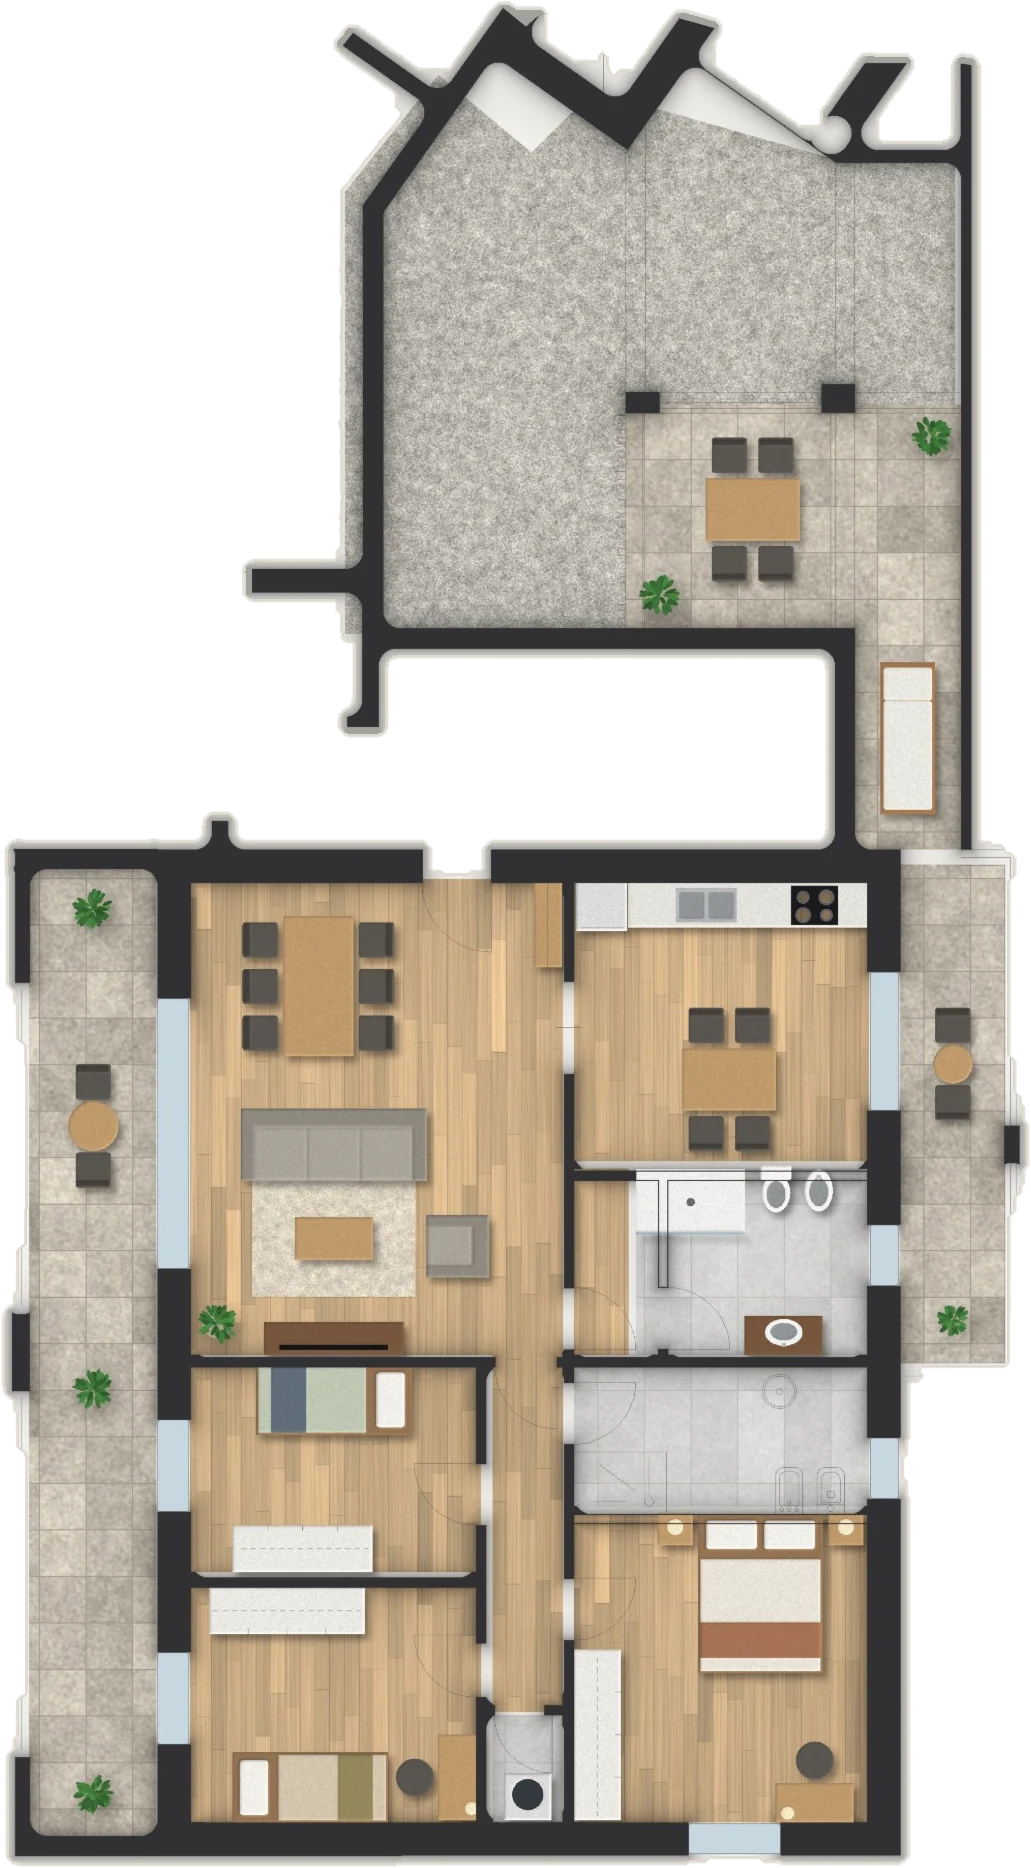
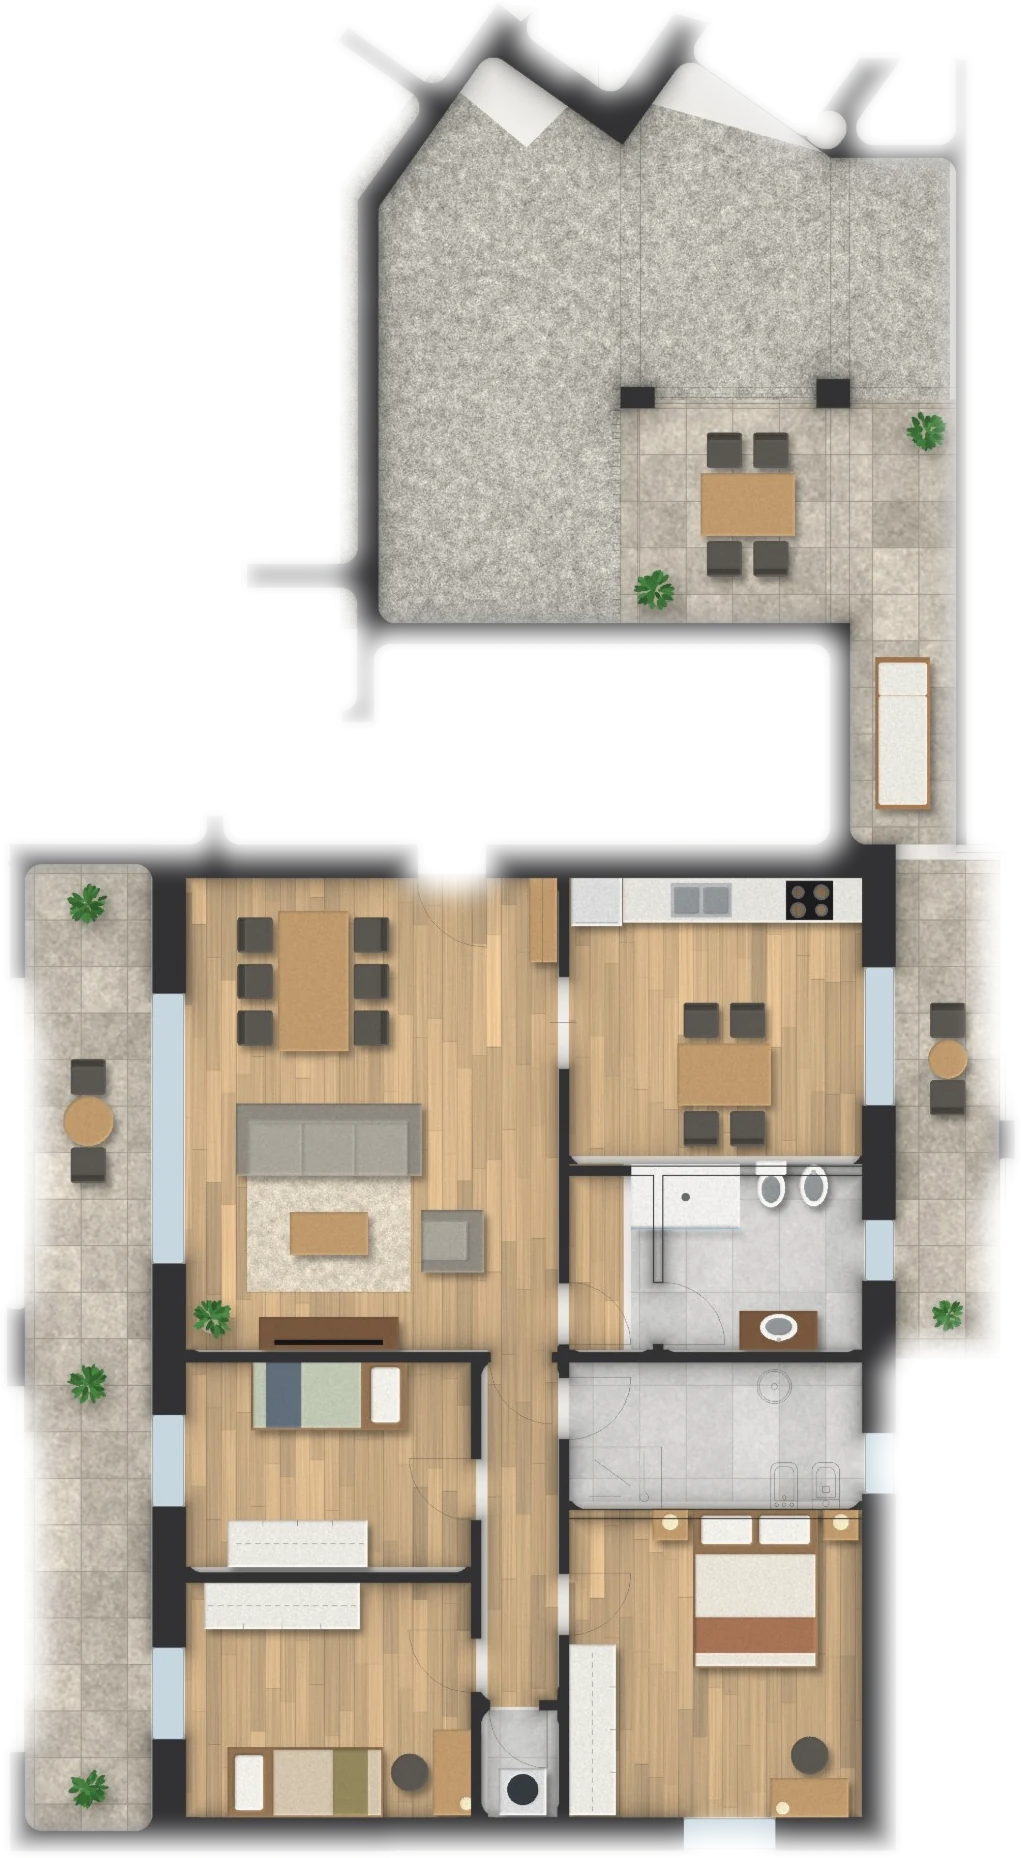
Planimetrie: bordo sfumato nel nero al posto del ritaglio netto
- Tolti il bordo chiaro e l'ombra: il perimetro della pianta sfuma gradualmente nel fondo scuro
- Sfumatura continua (senza scalini) anche sui contorni irregolari

Claude-Session: https://claude.ai/code/session_01R6xdRoKJ6ZxDiY1moh1f7c

Changed region(s): [[0.0, 0.0, 1.0, 0.9989], [0.6983, 0.5307, 0.7591, 0.5619]]

diff --git a/villa-c.html b/villa-c.html
@@ -73,7 +73,7 @@ nav.scrolled{background:rgba(8,8,8,.74);backdrop-filter:blur(16px);-webkit-backd
 .plan-fig a{height:calc(100% - 30px);max-width:100%;display:flex;justify-content:center;border-radius:6px;}
 .plan-fig a:focus-visible{outline:2px solid var(--accent);outline-offset:4px;}
 .plan-fig img{height:100%;width:auto;max-width:100%;object-fit:contain;cursor:zoom-in;
-  filter:drop-shadow(0 6px 8px rgba(0,0,0,.45)) drop-shadow(0 30px 38px rgba(0,0,0,.55));
+  opacity:.95;
   transform:translateY(14px) scale(.97);transition:transform 1s var(--e-expo);}
 .ustage.show-plan .plan-fig img{transform:none;}
 .plan-fig:nth-child(2) img{transition-delay:.08s;}
@@ -215,7 +215,7 @@ footer{background:#040404;padding:clamp(34px,5vh,52px) clamp(20px,5vw,60px);disp
 
 <header class="ustage" id="ustage">
   <div class="media" id="media"><div class="slide on" data-i="0"><img src="images/villa-c_30.webp" alt="Residenza Verdi 8, Villa C: render 1 di 20" loading="eager" decoding="async"></div><div class="slide" data-i="1"><img src="images/villa-c_1.webp" alt="Residenza Verdi 8, Villa C: render 2 di 20" loading="eager" decoding="async"></div><div class="slide" data-i="2"><img src="images/villa-c_2.webp" alt="Residenza Verdi 8, Villa C: render 3 di 20" loading="lazy" decoding="async"></div><div class="slide" data-i="3"><img src="images/villa-c_3.webp" alt="Residenza Verdi 8, Villa C: render 4 di 20" loading="lazy" decoding="async"></div><div class="slide" data-i="4"><img src="images/villa-c_4.webp" alt="Residenza Verdi 8, Villa C: render 5 di 20" loading="lazy" decoding="async"></div><div class="slide" data-i="5"><img src="images/villa-c_5.webp" alt="Residenza Verdi 8, Villa C: render 6 di 20" loading="lazy" decoding="async"></div><div class="slide" data-i="6"><img src="images/villa-c_6.webp" alt="Residenza Verdi 8, Villa C: render 7 di 20" loading="lazy" decoding="async"></div><div class="slide" data-i="7"><img src="images/villa-c_7.webp" alt="Residenza Verdi 8, Villa C: render 8 di 20" loading="lazy" decoding="async"></div><div class="slide" data-i="8"><img src="images/villa-c_8.webp" alt="Residenza Verdi 8, Villa C: render 9 di 20" loading="lazy" decoding="async"></div><div class="slide" data-i="9"><img src="images/villa-c_9.webp" alt="Residenza Verdi 8, Villa C: render 10 di 20" loading="lazy" decoding="async"></div><div class="slide" data-i="10"><img src="images/villa-c_10.webp" alt="Residenza Verdi 8, Villa C: render 11 di 20" loading="lazy" decoding="async"></div><div class="slide" data-i="11"><img src="images/villa-c_11.webp" alt="Residenza Verdi 8, Villa C: render 12 di 20" loading="lazy" decoding="async"></div><div class="slide" data-i="12"><img src="images/villa-c_12.webp" alt="Residenza Verdi 8, Villa C: render 13 di 20" loading="lazy" decoding="async"></div><div class="slide" data-i="13"><img src="images/villa-c_13.webp" alt="Residenza Verdi 8, Villa C: render 14 di 20" loading="lazy" decoding="async"></div><div class="slide" data-i="14"><img src="images/villa-c_14.webp" alt="Residenza Verdi 8, Villa C: render 15 di 20" loading="lazy" decoding="async"></div><div class="slide" data-i="15"><img src="images/villa-c_15.webp" alt="Residenza Verdi 8, Villa C: render 16 di 20" loading="lazy" decoding="async"></div><div class="slide" data-i="16"><img src="images/villa-c_16.webp" alt="Residenza Verdi 8, Villa C: render 17 di 20" loading="lazy" decoding="async"></div><div class="slide" data-i="17"><img src="images/villa-c_17.webp" alt="Residenza Verdi 8, Villa C: render 18 di 20" loading="lazy" decoding="async"></div><div class="slide" data-i="18"><img src="images/villa-c_18.webp" alt="Residenza Verdi 8, Villa C: render 19 di 20" loading="lazy" decoding="async"></div><div class="slide" data-i="19"><img src="images/villa-c_19.webp" alt="Residenza Verdi 8, Villa C: render 20 di 20" loading="lazy" decoding="async"></div></div>
-  <div class="plan-view"><figure class="plan-fig"><a href="images/pianta-villa-c.webp" target="_blank" rel="noopener" aria-label="Apri la planimetria piano terra a piena risoluzione"><img src="images/pianta-villa-c.webp" srcset="images/pianta-villa-c-1000.webp 1000w, images/pianta-villa-c.webp 846w" sizes="(max-width:768px) 90vw, 50vw" width="846" height="1968" alt="Planimetria Villa C, piano terra: soggiorno, cucina, tre camere, due bagni, giardini e posto auto" loading="lazy" decoding="async"></a><figcaption>Piano terra</figcaption></figure><figure class="plan-fig"><a href="images/pianta-villa-c-terrazzo.webp" target="_blank" rel="noopener" aria-label="Apri la planimetria terrazzo a piena risoluzione"><img src="images/pianta-villa-c-terrazzo.webp" srcset="images/pianta-villa-c-terrazzo-1000.webp 1000w, images/pianta-villa-c-terrazzo.webp 961w" sizes="(max-width:768px) 90vw, 50vw" width="961" height="1539" alt="Planimetria Villa C, terrazzo panoramico" loading="lazy" decoding="async"></a><figcaption>Terrazzo</figcaption></figure></div>
+  <div class="plan-view"><figure class="plan-fig"><a href="images/pianta-villa-c.webp" target="_blank" rel="noopener" aria-label="Apri la planimetria piano terra a piena risoluzione"><img src="images/pianta-villa-c.webp" srcset="images/pianta-villa-c-1000.webp 1000w, images/pianta-villa-c.webp 836w" sizes="(max-width:768px) 90vw, 50vw" width="836" height="1958" alt="Planimetria Villa C, piano terra: soggiorno, cucina, tre camere, due bagni, giardini e posto auto" loading="lazy" decoding="async"></a><figcaption>Piano terra</figcaption></figure><figure class="plan-fig"><a href="images/pianta-villa-c-terrazzo.webp" target="_blank" rel="noopener" aria-label="Apri la planimetria terrazzo a piena risoluzione"><img src="images/pianta-villa-c-terrazzo.webp" srcset="images/pianta-villa-c-terrazzo-1000.webp 1000w, images/pianta-villa-c-terrazzo.webp 951w" sizes="(max-width:768px) 90vw, 50vw" width="951" height="1529" alt="Planimetria Villa C, terrazzo panoramico" loading="lazy" decoding="async"></a><figcaption>Terrazzo</figcaption></figure></div>
   <div class="veil"></div>
 
   <div class="media-toggle" id="toggle">

diff --git a/app-a.html b/app-a.html
@@ -73,7 +73,7 @@ nav.scrolled{background:rgba(8,8,8,.74);backdrop-filter:blur(16px);-webkit-backd
 .plan-fig a{height:calc(100% - 30px);max-width:100%;display:flex;justify-content:center;border-radius:6px;}
 .plan-fig a:focus-visible{outline:2px solid var(--accent);outline-offset:4px;}
 .plan-fig img{height:100%;width:auto;max-width:100%;object-fit:contain;cursor:zoom-in;
-  filter:drop-shadow(0 6px 8px rgba(0,0,0,.45)) drop-shadow(0 30px 38px rgba(0,0,0,.55));
+  opacity:.95;
   transform:translateY(14px) scale(.97);transition:transform 1s var(--e-expo);}
 .ustage.show-plan .plan-fig img{transform:none;}
 .plan-fig:nth-child(2) img{transition-delay:.08s;}
@@ -215,7 +215,7 @@ footer{background:#040404;padding:clamp(34px,5vh,52px) clamp(20px,5vw,60px);disp
 
 <header class="ustage" id="ustage">
   <div class="media" id="media"><div class="slide on" data-i="0"><img src="images/app-a_24.webp" alt="Residenza Verdi 8, App. A: render 1 di 20" loading="eager" decoding="async"></div><div class="slide" data-i="1"><img src="images/app-a_1.webp" alt="Residenza Verdi 8, App. A: render 2 di 20" loading="eager" decoding="async"></div><div class="slide" data-i="2"><img src="images/app-a_2.webp" alt="Residenza Verdi 8, App. A: render 3 di 20" loading="lazy" decoding="async"></div><div class="slide" data-i="3"><img src="images/app-a_3.webp" alt="Residenza Verdi 8, App. A: render 4 di 20" loading="lazy" decoding="async"></div><div class="slide" data-i="4"><img src="images/app-a_4.webp" alt="Residenza Verdi 8, App. A: render 5 di 20" loading="lazy" decoding="async"></div><div class="slide" data-i="5"><img src="images/app-a_5.webp" alt="Residenza Verdi 8, App. A: render 6 di 20" loading="lazy" decoding="async"></div><div class="slide" data-i="6"><img src="images/app-a_6.webp" alt="Residenza Verdi 8, App. A: render 7 di 20" loading="lazy" decoding="async"></div><div class="slide" data-i="7"><img src="images/app-a_7.webp" alt="Residenza Verdi 8, App. A: render 8 di 20" loading="lazy" decoding="async"></div><div class="slide" data-i="8"><img src="images/app-a_8.webp" alt="Residenza Verdi 8, App. A: render 9 di 20" loading="lazy" decoding="async"></div><div class="slide" data-i="9"><img src="images/app-a_9.webp" alt="Residenza Verdi 8, App. A: render 10 di 20" loading="lazy" decoding="async"></div><div class="slide" data-i="10"><img src="images/app-a_10.webp" alt="Residenza Verdi 8, App. A: render 11 di 20" loading="lazy" decoding="async"></div><div class="slide" data-i="11"><img src="images/app-a_11.webp" alt="Residenza Verdi 8, App. A: render 12 di 20" loading="lazy" decoding="async"></div><div class="slide" data-i="12"><img src="images/app-a_12.webp" alt="Residenza Verdi 8, App. A: render 13 di 20" loading="lazy" decoding="async"></div><div class="slide" data-i="13"><img src="images/app-a_13.webp" alt="Residenza Verdi 8, App. A: render 14 di 20" loading="lazy" decoding="async"></div><div class="slide" data-i="14"><img src="images/app-a_14.webp" alt="Residenza Verdi 8, App. A: render 15 di 20" loading="lazy" decoding="async"></div><div class="slide" data-i="15"><img src="images/app-a_15.webp" alt="Residenza Verdi 8, App. A: render 16 di 20" loading="lazy" decoding="async"></div><div class="slide" data-i="16"><img src="images/app-a_16.webp" alt="Residenza Verdi 8, App. A: render 17 di 20" loading="lazy" decoding="async"></div><div class="slide" data-i="17"><img src="images/app-a_17.webp" alt="Residenza Verdi 8, App. A: render 18 di 20" loading="lazy" decoding="async"></div><div class="slide" data-i="18"><img src="images/app-a_18.webp" alt="Residenza Verdi 8, App. A: render 19 di 20" loading="lazy" decoding="async"></div><div class="slide" data-i="19"><img src="images/app-a_19.webp" alt="Residenza Verdi 8, App. A: render 20 di 20" loading="lazy" decoding="async"></div></div>
-  <div class="plan-view"><figure class="plan-fig"><a href="images/pianta-app-a.webp" target="_blank" rel="noopener" aria-label="Apri la planimetria piano terra a piena risoluzione"><img src="images/pianta-app-a.webp" srcset="images/pianta-app-a-1000.webp 1000w, images/pianta-app-a.webp 1565w" sizes="(max-width:768px) 90vw, 50vw" width="1565" height="1735" alt="Planimetria App. A, piano terra: soggiorno, cucina abitabile, tre camere, due bagni, giardino privato e due posti auto" loading="lazy" decoding="async"></a><figcaption>Piano terra</figcaption></figure></div>
+  <div class="plan-view"><figure class="plan-fig"><a href="images/pianta-app-a.webp" target="_blank" rel="noopener" aria-label="Apri la planimetria piano terra a piena risoluzione"><img src="images/pianta-app-a.webp" srcset="images/pianta-app-a-1000.webp 1000w, images/pianta-app-a.webp 1555w" sizes="(max-width:768px) 90vw, 50vw" width="1555" height="1725" alt="Planimetria App. A, piano terra: soggiorno, cucina abitabile, tre camere, due bagni, giardino privato e due posti auto" loading="lazy" decoding="async"></a><figcaption>Piano terra</figcaption></figure></div>
   <div class="veil"></div>
 
   <div class="media-toggle" id="toggle">

diff --git a/attico.html b/attico.html
@@ -73,7 +73,7 @@ nav.scrolled{background:rgba(8,8,8,.74);backdrop-filter:blur(16px);-webkit-backd
 .plan-fig a{height:calc(100% - 30px);max-width:100%;display:flex;justify-content:center;border-radius:6px;}
 .plan-fig a:focus-visible{outline:2px solid var(--accent);outline-offset:4px;}
 .plan-fig img{height:100%;width:auto;max-width:100%;object-fit:contain;cursor:zoom-in;
-  filter:drop-shadow(0 6px 8px rgba(0,0,0,.45)) drop-shadow(0 30px 38px rgba(0,0,0,.55));
+  opacity:.95;
   transform:translateY(14px) scale(.97);transition:transform 1s var(--e-expo);}
 .ustage.show-plan .plan-fig img{transform:none;}
 .plan-fig:nth-child(2) img{transition-delay:.08s;}
@@ -215,7 +215,7 @@ footer{background:#040404;padding:clamp(34px,5vh,52px) clamp(20px,5vw,60px);disp
 
 <header class="ustage" id="ustage">
   <div class="media" id="media"><div class="slide on" data-i="0"><img src="images/attico_28.webp" alt="Residenza Verdi 8, Attico: render 1 di 20" loading="eager" decoding="async"></div><div class="slide" data-i="1"><img src="images/attico_1.webp" alt="Residenza Verdi 8, Attico: render 2 di 20" loading="eager" decoding="async"></div><div class="slide" data-i="2"><img src="images/attico_2.webp" alt="Residenza Verdi 8, Attico: render 3 di 20" loading="lazy" decoding="async"></div><div class="slide" data-i="3"><img src="images/attico_3.webp" alt="Residenza Verdi 8, Attico: render 4 di 20" loading="lazy" decoding="async"></div><div class="slide" data-i="4"><img src="images/attico_4.webp" alt="Residenza Verdi 8, Attico: render 5 di 20" loading="lazy" decoding="async"></div><div class="slide" data-i="5"><img src="images/attico_5.webp" alt="Residenza Verdi 8, Attico: render 6 di 20" loading="lazy" decoding="async"></div><div class="slide" data-i="6"><img src="images/attico_6.webp" alt="Residenza Verdi 8, Attico: render 7 di 20" loading="lazy" decoding="async"></div><div class="slide" data-i="7"><img src="images/attico_7.webp" alt="Residenza Verdi 8, Attico: render 8 di 20" loading="lazy" decoding="async"></div><div class="slide" data-i="8"><img src="images/attico_8.webp" alt="Residenza Verdi 8, Attico: render 9 di 20" loading="lazy" decoding="async"></div><div class="slide" data-i="9"><img src="images/attico_9.webp" alt="Residenza Verdi 8, Attico: render 10 di 20" loading="lazy" decoding="async"></div><div class="slide" data-i="10"><img src="images/attico_10.webp" alt="Residenza Verdi 8, Attico: render 11 di 20" loading="lazy" decoding="async"></div><div class="slide" data-i="11"><img src="images/attico_11.webp" alt="Residenza Verdi 8, Attico: render 12 di 20" loading="lazy" decoding="async"></div><div class="slide" data-i="12"><img src="images/attico_12.webp" alt="Residenza Verdi 8, Attico: render 13 di 20" loading="lazy" decoding="async"></div><div class="slide" data-i="13"><img src="images/attico_13.webp" alt="Residenza Verdi 8, Attico: render 14 di 20" loading="lazy" decoding="async"></div><div class="slide" data-i="14"><img src="images/attico_14.webp" alt="Residenza Verdi 8, Attico: render 15 di 20" loading="lazy" decoding="async"></div><div class="slide" data-i="15"><img src="images/attico_15.webp" alt="Residenza Verdi 8, Attico: render 16 di 20" loading="lazy" decoding="async"></div><div class="slide" data-i="16"><img src="images/attico_16.webp" alt="Residenza Verdi 8, Attico: render 17 di 20" loading="lazy" decoding="async"></div><div class="slide" data-i="17"><img src="images/attico_17.webp" alt="Residenza Verdi 8, Attico: render 18 di 20" loading="lazy" decoding="async"></div><div class="slide" data-i="18"><img src="images/attico_18.webp" alt="Residenza Verdi 8, Attico: render 19 di 20" loading="lazy" decoding="async"></div><div class="slide" data-i="19"><img src="images/attico_19.webp" alt="Residenza Verdi 8, Attico: render 20 di 20" loading="lazy" decoding="async"></div></div>
-  <div class="plan-view"><figure class="plan-fig"><a href="images/pianta-attico.webp" target="_blank" rel="noopener" aria-label="Apri la planimetria piano secondo a piena risoluzione"><img src="images/pianta-attico.webp" srcset="images/pianta-attico-1000.webp 1000w, images/pianta-attico.webp 1542w" sizes="(max-width:768px) 90vw, 50vw" width="1542" height="1652" alt="Planimetria Attico, piano secondo: soggiorno, cucina abitabile, tre camere, due bagni e balconi" loading="lazy" decoding="async"></a><figcaption>Piano secondo</figcaption></figure></div>
+  <div class="plan-view"><figure class="plan-fig"><a href="images/pianta-attico.webp" target="_blank" rel="noopener" aria-label="Apri la planimetria piano secondo a piena risoluzione"><img src="images/pianta-attico.webp" srcset="images/pianta-attico-1000.webp 1000w, images/pianta-attico.webp 1532w" sizes="(max-width:768px) 90vw, 50vw" width="1532" height="1637" alt="Planimetria Attico, piano secondo: soggiorno, cucina abitabile, tre camere, due bagni e balconi" loading="lazy" decoding="async"></a><figcaption>Piano secondo</figcaption></figure></div>
   <div class="veil"></div>
 
   <div class="media-toggle" id="toggle">

diff --git a/app-b.html b/app-b.html
@@ -73,7 +73,7 @@ nav.scrolled{background:rgba(8,8,8,.74);backdrop-filter:blur(16px);-webkit-backd
 .plan-fig a{height:calc(100% - 30px);max-width:100%;display:flex;justify-content:center;border-radius:6px;}
 .plan-fig a:focus-visible{outline:2px solid var(--accent);outline-offset:4px;}
 .plan-fig img{height:100%;width:auto;max-width:100%;object-fit:contain;cursor:zoom-in;
-  filter:drop-shadow(0 6px 8px rgba(0,0,0,.45)) drop-shadow(0 30px 38px rgba(0,0,0,.55));
+  opacity:.95;
   transform:translateY(14px) scale(.97);transition:transform 1s var(--e-expo);}
 .ustage.show-plan .plan-fig img{transform:none;}
 .plan-fig:nth-child(2) img{transition-delay:.08s;}
@@ -215,7 +215,7 @@ footer{background:#040404;padding:clamp(34px,5vh,52px) clamp(20px,5vw,60px);disp
 
 <header class="ustage" id="ustage">
   <div class="media" id="media"><div class="slide on" data-i="0"><img src="images/app-b_26.webp" alt="Residenza Verdi 8, App. B: render 1 di 20" loading="eager" decoding="async"></div><div class="slide" data-i="1"><img src="images/app-b_1.webp" alt="Residenza Verdi 8, App. B: render 2 di 20" loading="eager" decoding="async"></div><div class="slide" data-i="2"><img src="images/app-b_2.webp" alt="Residenza Verdi 8, App. B: render 3 di 20" loading="lazy" decoding="async"></div><div class="slide" data-i="3"><img src="images/app-b_3.webp" alt="Residenza Verdi 8, App. B: render 4 di 20" loading="lazy" decoding="async"></div><div class="slide" data-i="4"><img src="images/app-b_4.webp" alt="Residenza Verdi 8, App. B: render 5 di 20" loading="lazy" decoding="async"></div><div class="slide" data-i="5"><img src="images/app-b_5.webp" alt="Residenza Verdi 8, App. B: render 6 di 20" loading="lazy" decoding="async"></div><div class="slide" data-i="6"><img src="images/app-b_6.webp" alt="Residenza Verdi 8, App. B: render 7 di 20" loading="lazy" decoding="async"></div><div class="slide" data-i="7"><img src="images/app-b_7.webp" alt="Residenza Verdi 8, App. B: render 8 di 20" loading="lazy" decoding="async"></div><div class="slide" data-i="8"><img src="images/app-b_8.webp" alt="Residenza Verdi 8, App. B: render 9 di 20" loading="lazy" decoding="async"></div><div class="slide" data-i="9"><img src="images/app-b_9.webp" alt="Residenza Verdi 8, App. B: render 10 di 20" loading="lazy" decoding="async"></div><div class="slide" data-i="10"><img src="images/app-b_10.webp" alt="Residenza Verdi 8, App. B: render 11 di 20" loading="lazy" decoding="async"></div><div class="slide" data-i="11"><img src="images/app-b_11.webp" alt="Residenza Verdi 8, App. B: render 12 di 20" loading="lazy" decoding="async"></div><div class="slide" data-i="12"><img src="images/app-b_12.webp" alt="Residenza Verdi 8, App. B: render 13 di 20" loading="lazy" decoding="async"></div><div class="slide" data-i="13"><img src="images/app-b_13.webp" alt="Residenza Verdi 8, App. B: render 14 di 20" loading="lazy" decoding="async"></div><div class="slide" data-i="14"><img src="images/app-b_14.webp" alt="Residenza Verdi 8, App. B: render 15 di 20" loading="lazy" decoding="async"></div><div class="slide" data-i="15"><img src="images/app-b_15.webp" alt="Residenza Verdi 8, App. B: render 16 di 20" loading="lazy" decoding="async"></div><div class="slide" data-i="16"><img src="images/app-b_16.webp" alt="Residenza Verdi 8, App. B: render 17 di 20" loading="lazy" decoding="async"></div><div class="slide" data-i="17"><img src="images/app-b_17.webp" alt="Residenza Verdi 8, App. B: render 18 di 20" loading="lazy" decoding="async"></div><div class="slide" data-i="18"><img src="images/app-b_18.webp" alt="Residenza Verdi 8, App. B: render 19 di 20" loading="lazy" decoding="async"></div><div class="slide" data-i="19"><img src="images/app-b_19.webp" alt="Residenza Verdi 8, App. B: render 20 di 20" loading="lazy" decoding="async"></div></div>
-  <div class="plan-view"><figure class="plan-fig"><a href="images/pianta-app-b.webp" target="_blank" rel="noopener" aria-label="Apri la planimetria piano primo a piena risoluzione"><img src="images/pianta-app-b.webp" srcset="images/pianta-app-b-1000.webp 1000w, images/pianta-app-b.webp 1031w" sizes="(max-width:768px) 90vw, 50vw" width="1031" height="1868" alt="Planimetria App. B, piano primo: soggiorno, cucina abitabile, tre camere, due bagni, balconi e terrazzo" loading="lazy" decoding="async"></a><figcaption>Piano primo</figcaption></figure></div>
+  <div class="plan-view"><figure class="plan-fig"><a href="images/pianta-app-b.webp" target="_blank" rel="noopener" aria-label="Apri la planimetria piano primo a piena risoluzione"><img src="images/pianta-app-b.webp" srcset="images/pianta-app-b-1000.webp 1000w, images/pianta-app-b.webp 1021w" sizes="(max-width:768px) 90vw, 50vw" width="1021" height="1858" alt="Planimetria App. B, piano primo: soggiorno, cucina abitabile, tre camere, due bagni, balconi e terrazzo" loading="lazy" decoding="async"></a><figcaption>Piano primo</figcaption></figure></div>
   <div class="veil"></div>
 
   <div class="media-toggle" id="toggle">
